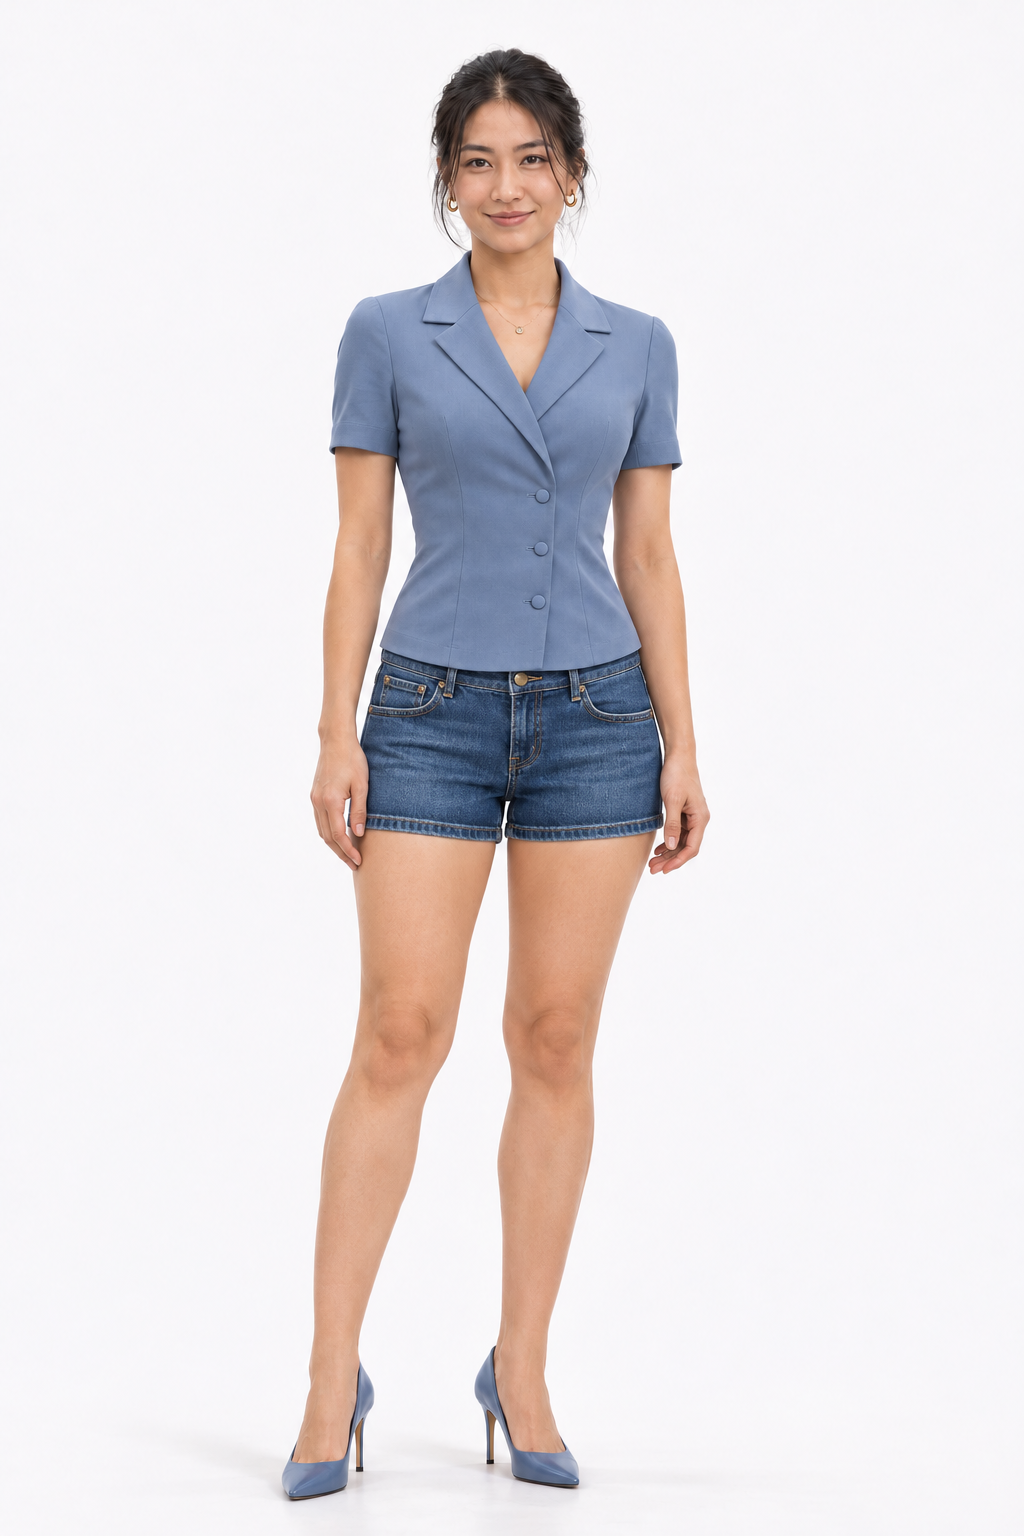
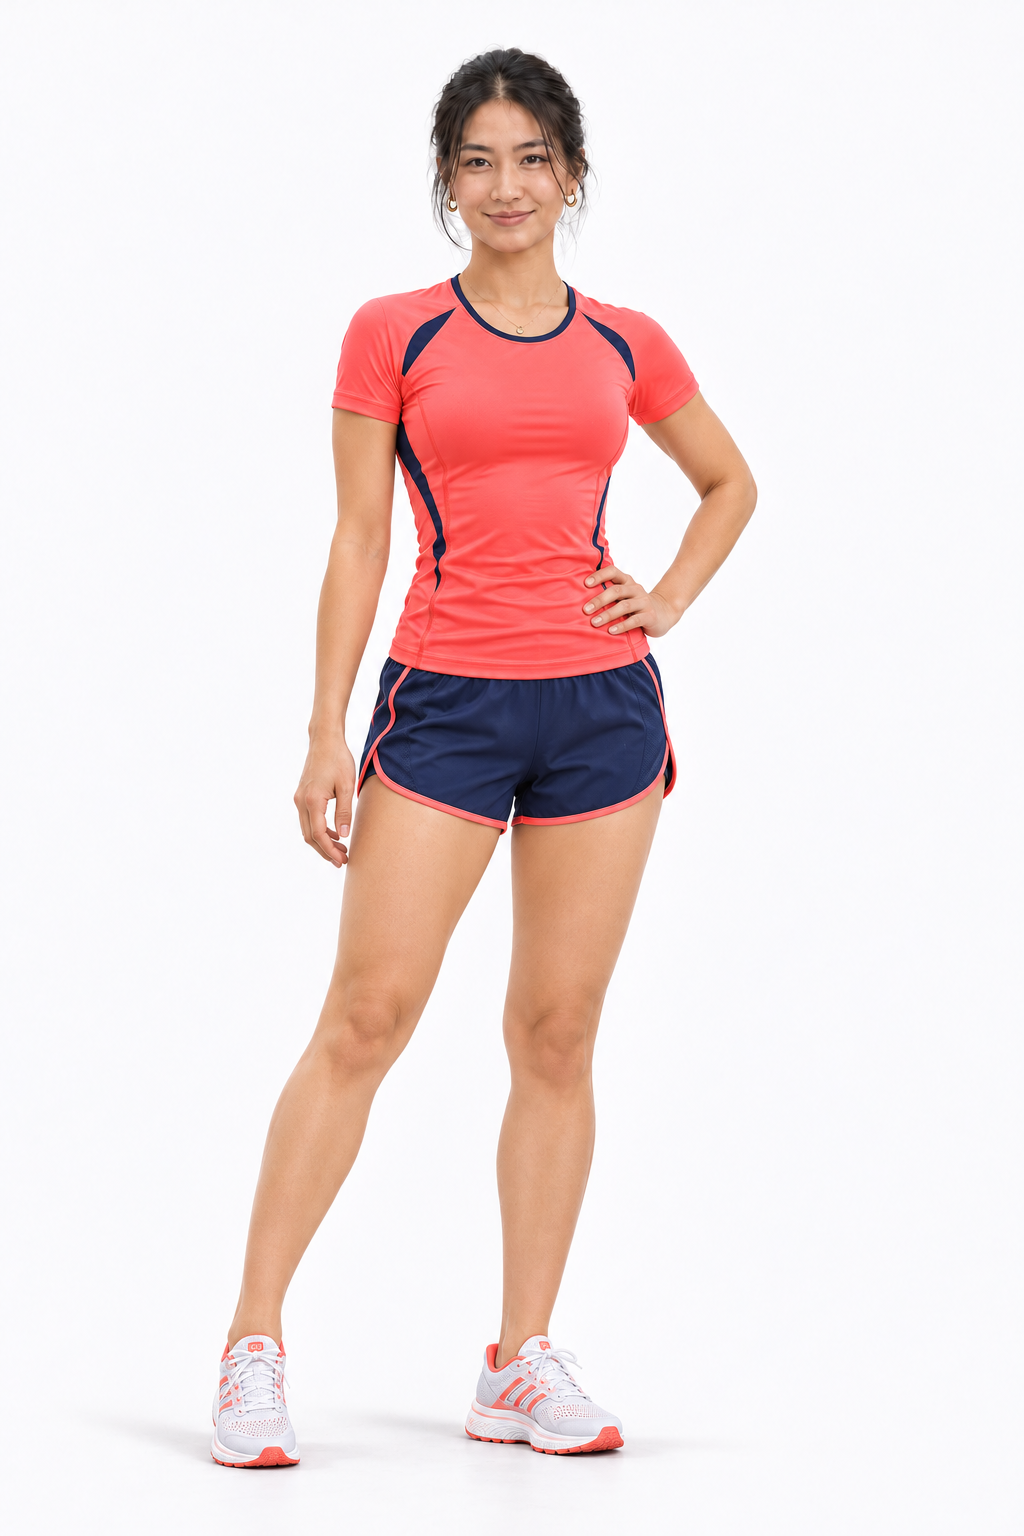
Refine portrait 56 proportions and update 30 crop top and 27 sportswear

Changed region(s): [[0.1875, 0.0938, 0.75, 1.0], [0.4375, 0.8438, 0.625, 0.9688], [0.5625, 0.75, 0.5938, 0.7812]]

diff --git a/assets/fullbody/README.md b/assets/fullbody/README.md
@@ -6,8 +6,8 @@
 
 - 裙裝／連身裙裝：47 人（73.4%）；褲裝：17 人（26.6%），已依後續指定更新。
 - 裙裝中膝上：42 人（89.4%）；其餘 5 人為及膝以下。
-- 有跟鞋：58 人（90.6%）；帆布鞋／運動鞋：4 人（06、08、24、40）；其他平底鞋：2 人（04、05）。
-- 01～32 中短版露腰上衣：8 人（25%），編號 01、03、05、07、09、11、13、15。
+- 有跟鞋：57 人（89.1%）；帆布鞋／運動鞋：5 人（06、08、24、27、40）；其他平底鞋：2 人（04、05），依後續指定更新。
+- 01～32 中短版露腰上衣：9 人（28.1%），編號 01、03、05、07、09、11、13、15、30。
 
 各圖為 AI 延伸創作，保留參考人物特徵，但並非真實人物攝影，也不保證臉部像素完全相同。服裝及對應資料見 [manifest.json](manifest.json)。
 
@@ -41,10 +41,10 @@
 | avatar-24 | ![頭像](../avatars/avatar-24.webp) | [查看全身照](avatar-24.png) | 褲裝 | 運動鞋 |
 | avatar-25 | ![頭像](../avatars/avatar-25.webp) | [查看全身照](avatar-25.png) | 裙裝・膝上 | 有跟鞋 |
 | avatar-26 | ![頭像](../avatars/avatar-26.webp) | [查看全身照](avatar-26.png) | 裙裝・膝上 | 有跟鞋 |
-| avatar-27 | ![頭像](../avatars/avatar-27.webp) | [查看全身照](avatar-27.png) | 褲裝・牛仔短褲 | 有跟鞋 |
+| avatar-27 | ![頭像](../avatars/avatar-27.webp) | [查看全身照](avatar-27.png) | 褲裝・運動短褲 | 運動鞋 |
 | avatar-28 | ![頭像](../avatars/avatar-28.webp) | [查看全身照](avatar-28.png) | 褲裝 | 有跟鞋 |
 | avatar-29 | ![頭像](../avatars/avatar-29.webp) | [查看全身照](avatar-29.png) | 裙裝・膝上 | 有跟鞋 |
-| avatar-30 | ![頭像](../avatars/avatar-30.webp) | [查看全身照](avatar-30.png) | 連身裙裝・膝上 | 有跟鞋 |
+| avatar-30 | ![頭像](../avatars/avatar-30.webp) | [查看全身照](avatar-30.png) | 裙裝・膝上・短版露腰 | 有跟鞋 |
 | avatar-31 | ![頭像](../avatars/avatar-31.webp) | [查看全身照](avatar-31.png) | 裙裝・膝上 | 有跟鞋 |
 | avatar-32 | ![頭像](../avatars/avatar-32.webp) | [查看全身照](avatar-32.png) | 褲裝 | 有跟鞋 |
 | avatar-33 | ![頭像](../avatars/avatar-33.webp) | [查看全身照](avatar-33.png) | 連身裙裝・膝上 | 有跟鞋 |
@@ -89,3 +89,5 @@
 57 改為深藍連身裙、較纖細腿型與跟鞋；27 改為牛仔短褲；05 改為奶油色平底鞋。三人的原頭像保持不變。
 
 56 更新為酒紅連身裙、較纖細腿型與跟鞋；06 更新為帽衫、牛仔長褲與平底帆布鞋；04 更新為牛仔外套、休閒長褲與平底樂福鞋。原頭像維持不變。
+
+最新調整：56 為較高挑頭身比例與較豐滿胸型；30 改為短版露腰襯衫搭配膝上裙；27 改為珊瑚橘運動上衣、深藍運動短褲與運動鞋。原頭像不變。
